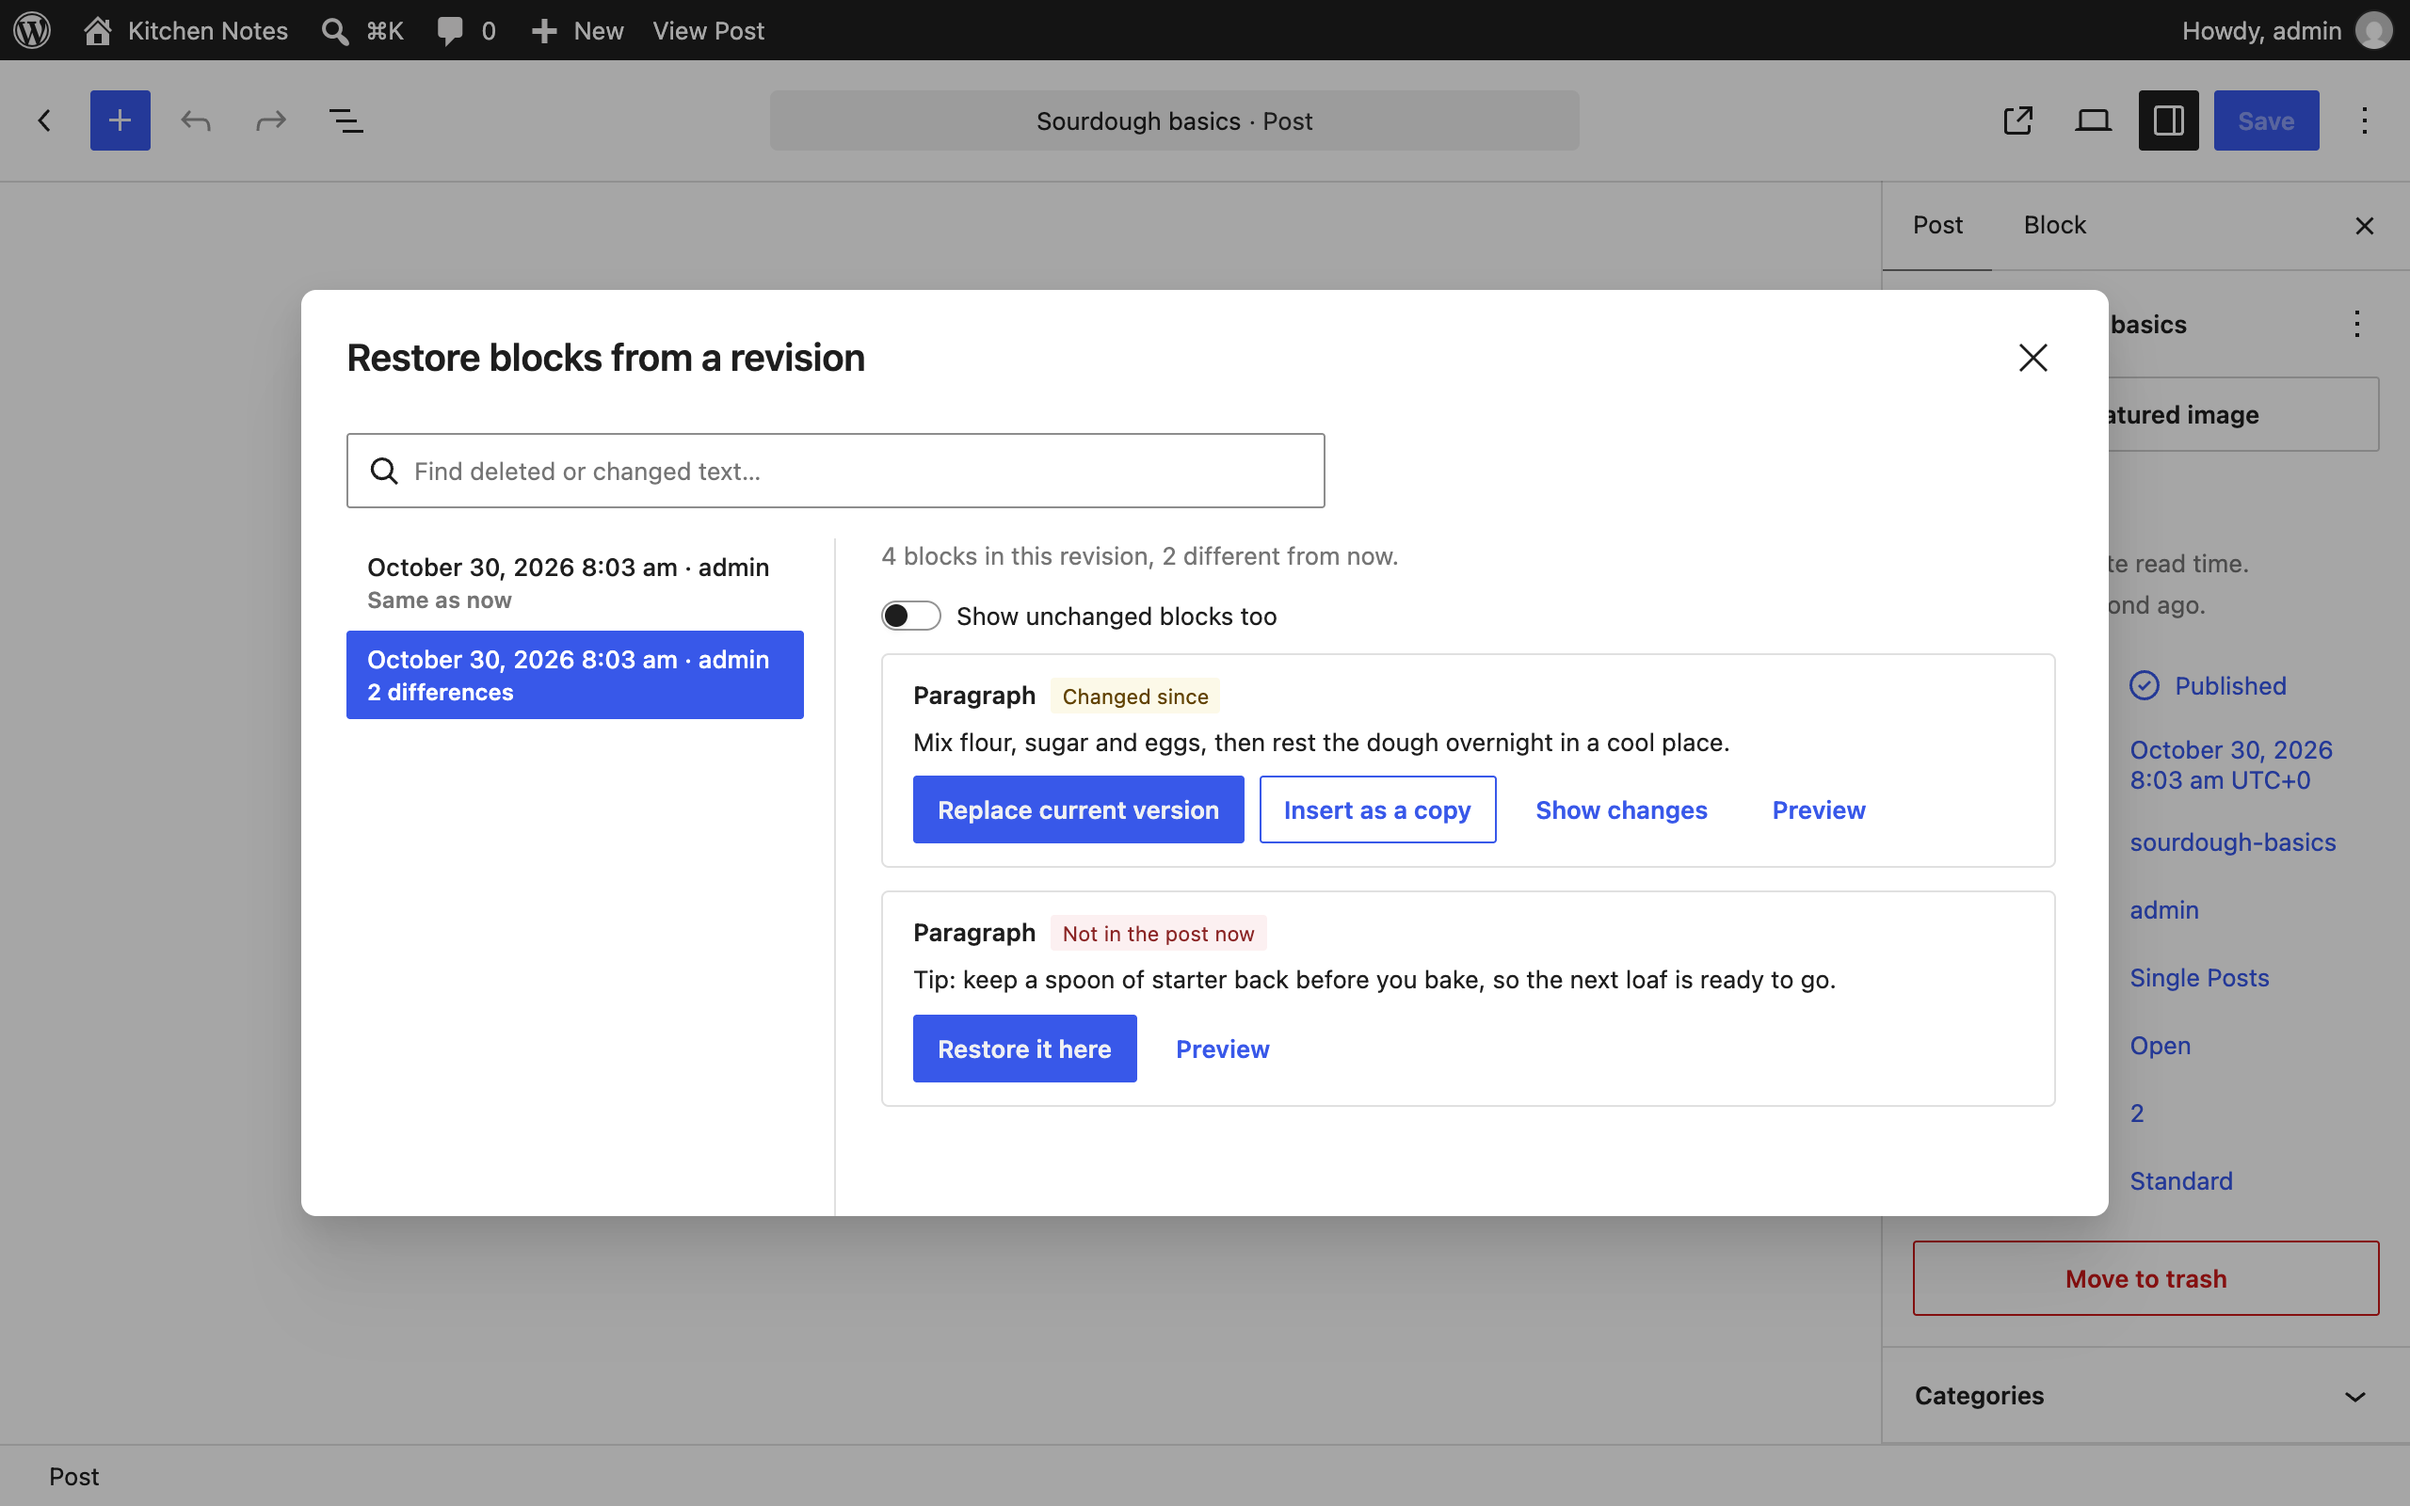
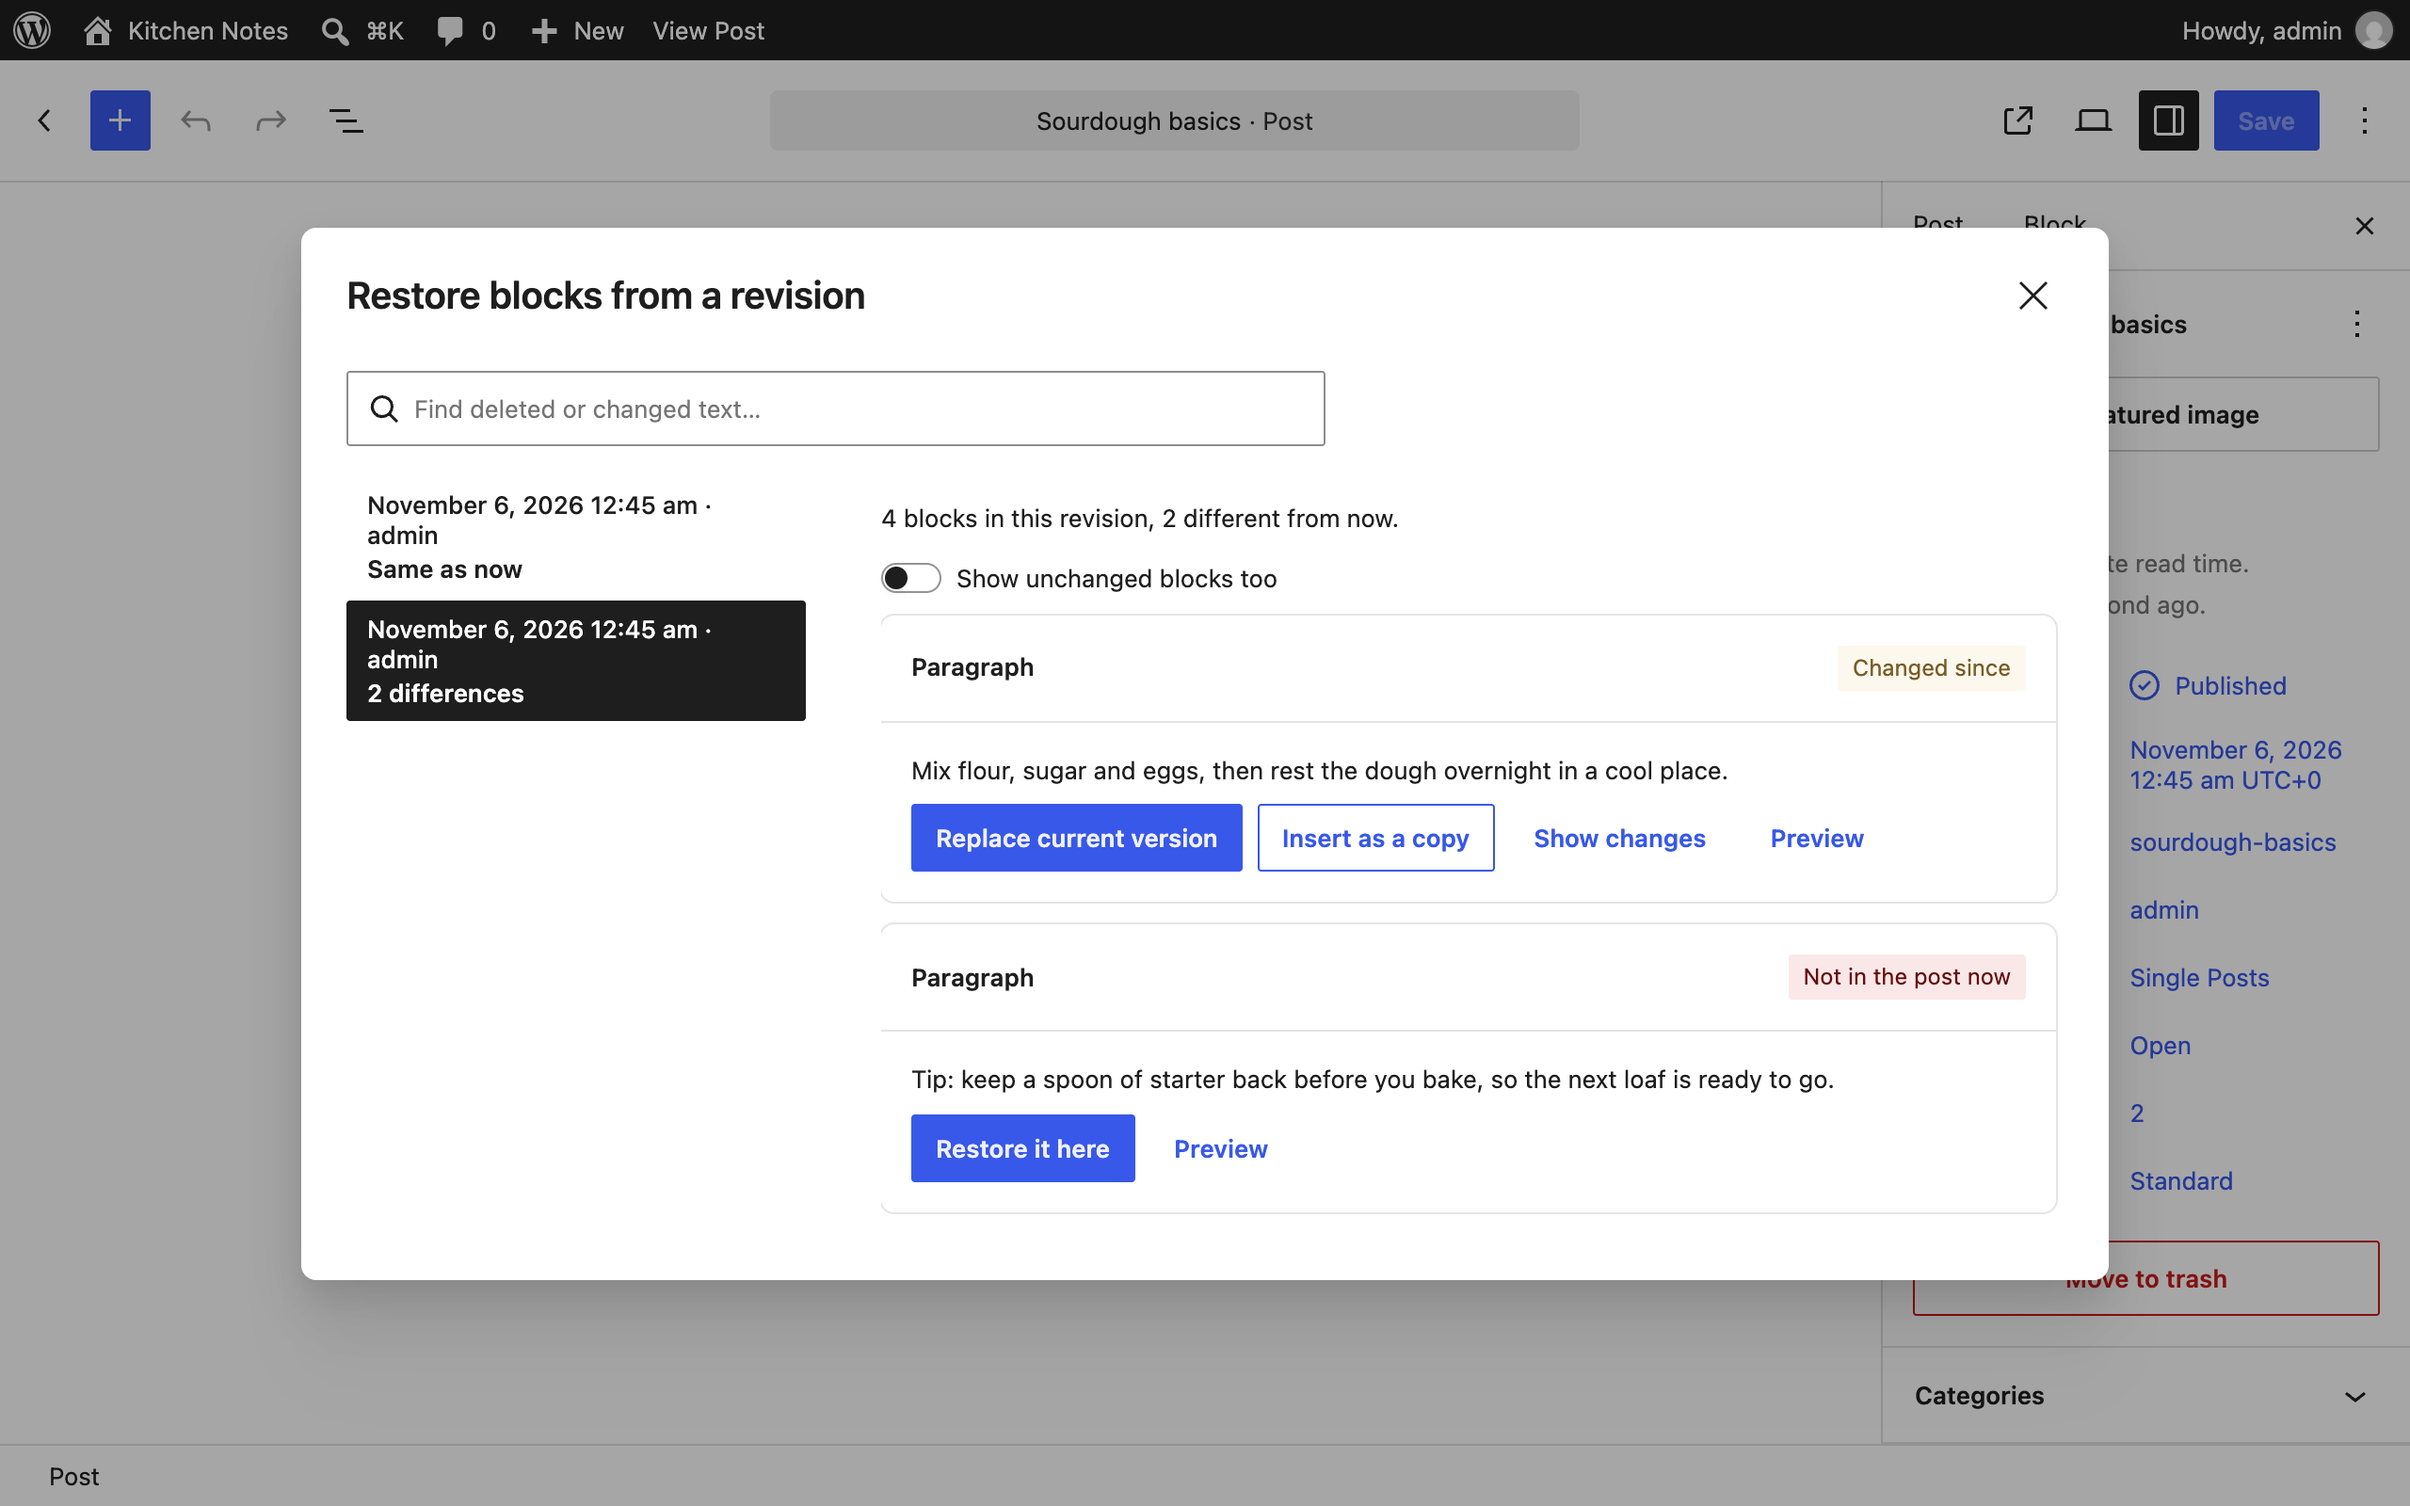
feat: adopt the Axle family design

diff --git a/assets/editor.css b/assets/editor.css
@@ -1,3 +1,4 @@
+/* Layout only. Colours, badges, cards and buttons come from @wordpress/components. */
 .abr-modal .components-modal__content {
 	padding-bottom: 0;
 }
@@ -19,7 +20,6 @@
 	display: flex;
 	flex-direction: column;
 	gap: 2px;
-	border-right: 1px solid #e0e0e0;
 	padding-right: 16px;
 	max-height: 66vh;
 	overflow-y: auto;
@@ -43,29 +43,10 @@
 }
 
 .abr-revision__meta {
-	font-size: 12px;
-	color: #757575;
-}
-
-.abr-revisions .abr-revision.is-selected {
-	background: var(--wp-admin-theme-color, #3858e9);
-	color: #fff;
-}
-
-.abr-revisions .abr-revision.is-selected .abr-revision__meta {
-	/* Full white: the 85% white it had stayed under 4.5:1 on the admin theme colors. */
-	color: #fff;
-}
-
-.abr-tag {
-	display: inline-block;
-	margin-right: 6px;
-	padding: 0 5px;
-	border: 1px solid currentColor;
-	border-radius: 2px;
-	font-size: 10px;
-	text-transform: uppercase;
-	letter-spacing: 0.03em;
+	display: flex;
+	flex-wrap: wrap;
+	gap: 6px;
+	align-items: center;
 }
 
 /* Blocks of the selected revision */
@@ -75,140 +56,92 @@
 	padding: 0 4px 24px 0;
 }
 
-.abr-summary {
-	margin-top: 0;
-	color: #757575;
-}
-
-.abr-card {
-	border: 1px solid #e0e0e0;
-	border-radius: 4px;
-	padding: 12px 16px;
+.abr-blocks .abr-card {
 	margin: 12px 0;
-	transition: box-shadow 0.2s;
 }
 
-.abr-card.is-focused {
-	border-color: var(--wp-admin-theme-color, #3858e9);
-	box-shadow: 0 0 0 1px var(--wp-admin-theme-color, #3858e9);
-}
-
-.abr-card__head {
+.abr-card__badges {
 	display: flex;
-	align-items: center;
+	flex-wrap: wrap;
 	gap: 8px;
 }
 
-.abr-card__excerpt {
-	margin: 6px 0 8px;
-}
-
-.abr-card__excerpt.is-empty {
-	color: #757575;
-	font-style: italic;
+.abr-card__excerpt,
+.abr-card__meta {
+	margin: 0 0 8px;
 }
 
 .abr-card__preview {
 	max-height: 260px;
 	overflow: hidden;
-	border: 1px solid #f0f0f0;
 	margin-bottom: 8px;
 }
 
 .abr-card__actions {
 	display: flex;
 	flex-wrap: wrap;
+	align-items: center;
 	gap: 8px;
 }
 
+.abr-card__actions .components-button {
+	flex-shrink: 0;
+}
+
+.abr-card__head {
+	display: flex;
+	flex-wrap: wrap;
+	align-items: center;
+	gap: 8px;
+}
+
+.abr-card__note {
+	flex-basis: 100%;
+}
+
 .abr-diff {
-	margin: 0 0 10px;
-	padding: 8px 12px;
-	background: #f6f7f7;
-	border-radius: 2px;
+	margin: 0 0 8px;
 	line-height: 1.7;
 }
 
-.abr-diff del,
-.abr-diff ins {
-	padding: 1px 2px;
-	border-radius: 2px;
+.abr-settings {
+	margin: 0 0 8px;
+	padding-left: 20px;
+	list-style: disc;
 }
 
-.abr-diff del + ins {
-	margin-left: 3px;
+.abr-inner__list {
+	margin: 0;
+	padding: 0;
 }
 
-.abr-diff del {
-	background: #fcf0f1;
-	color: #8a2424;
-	text-decoration: line-through;
+.abr-inner__item {
+	list-style: none;
+	margin: 0 0 16px;
 }
 
-.abr-diff ins {
-	background: #edfaef;
-	color: #00450c;
-	text-decoration: none;
-}
-
-.abr-modal mark {
-	background: #fcf9e8;
-	box-shadow: 0 0 0 1px #dba617;
-	color: inherit;
-}
-
-.abr-badge {
-	font-size: 11px;
-	line-height: 1;
-	padding: 4px 6px;
-	border-radius: 2px;
-	background: #f0f0f0;
-	color: #1e1e1e;
-}
-
-.abr-badge--missing {
-	background: #fcf0f1;
-	color: #8a2424;
-}
-
-.abr-badge--changed {
-	background: #fcf9e8;
-	color: #614200;
-}
-
-.abr-badge--match {
-	background: #edfaef;
-	color: #00450c;
+.abr-loading {
+	display: flex;
+	align-items: center;
+	gap: 8px;
 }
 
 /* Search results */
 .abr-results {
 	margin: 0;
-	padding-bottom: 24px;
+	padding: 0 0 24px;
 	max-height: 66vh;
 	overflow-y: auto;
 }
 
 .abr-result {
-	border: 1px solid #e0e0e0;
-	border-radius: 4px;
-	padding: 10px 16px;
-	margin: 0 0 10px;
 	list-style: none;
+	margin: 0 0 12px;
 }
 
-.abr-result__text {
-	margin: 0 0 4px;
-}
-
+.abr-result__text,
 .abr-result__meta {
 	margin: 0 0 8px;
-	color: #757575;
-	font-size: 12px;
-}
-
-.abr-search-empty {
-	color: #757575;
 }
 
 @media (max-width: 600px) {
@@ -217,8 +150,6 @@
 	}
 
 	.abr-revisions {
-		border-right: 0;
-		border-bottom: 1px solid #e0e0e0;
 		padding: 0 0 12px;
 		max-height: 30vh;
 	}

diff --git a/tests/e2e/screenshots.spec.js b/tests/e2e/screenshots.spec.js
@@ -53,4 +53,53 @@ test.describe( 'Screenshots', () => {
 		await expect( page.locator( '.abr-result' ) ).toHaveCount( 1 );
 		await shot( page, 3 );
 	} );
+
+	test( '4: restoring a block of a template part in the Site Editor', async ( { page, request } ) => {
+		const nonce = ( await ( await request.get( '/wp-admin/admin-ajax.php?action=rest-nonce' ) ).text() ).trim();
+		const theme = process.env.WP_THEME || 'twentytwentyfive';
+		const notes = [
+			[ p( 'Open Monday to Friday, from nine until five.' ), p( 'Call us on 020 7946 0000.' ) ],
+			[ p( 'Open Monday to Friday, from ten until six.' ), p( 'Call us on 020 7946 0000.' ) ],
+			[ p( 'Open Monday to Saturday, from ten until six.' ) ],
+		];
+		for ( const blocks of notes ) {
+			await request.post( `/index.php?rest_route=${ encodeURIComponent( `/wp/v2/template-parts/${ theme }//header` ) }`, { headers: { 'X-WP-Nonce': nonce }, data: { slug: 'header', theme, status: 'publish', content: blocks.join( '\n\n' ) } } );
+		}
+		await page.goto( `/wp-admin/site-editor.php?postType=wp_template_part&postId=${ encodeURIComponent( `${ theme }//header` ) }&canvas=edit` );
+		await page.waitForFunction( () => window.wp && window.wp.data && 'wp_template_part' === window.wp.data.select( 'core/editor' ).getCurrentPostType() && window.wp.data.select( 'core/block-editor' ).getBlocks().length );
+		await page.evaluate( () => {
+			window.wp.data.dispatch( 'core/preferences' ).set( 'core/edit-site', 'welcomeGuide', false );
+			window.wp.data.dispatch( 'core/preferences' ).set( 'core/edit-site', 'welcomeGuideTemplate', false );
+			window.wp.data.dispatch( 'core/preferences' ).set( 'core', 'welcomeGuide', false );
+			const id = window.wp.data.select( 'core/block-editor' ).getBlocks()[ 0 ].clientId;
+			window.wp.data.dispatch( 'core/block-editor' ).selectBlock( id );
+		} );
+		await page.getByRole( 'toolbar', { name: 'Block tools' } ).getByRole( 'button', { name: 'Options' } ).click();
+		await page.getByRole( 'menuitem', { name: 'Restore from a revision…' } ).click();
+		const best = page.locator( '.abr-card' ).first();
+		await best.getByRole( 'button', { name: 'Show changes' } ).click();
+		await expect( best.locator( '.abr-diff' ) ).toBeVisible();
+		await shot( page, 4 );
+	} );
+
+	test( '5: restoring a group, with what differs inside it', async ( { page, request } ) => {
+		const nonce = ( await ( await request.get( '/wp-admin/admin-ajax.php?action=rest-nonce' ) ).text() ).trim();
+		const group = ( ...inner ) => `<!-- wp:group --><div class="wp-block-group">${ inner.join( '' ) }</div><!-- /wp:group -->`;
+		const save = ( id, data ) => request.post( `/index.php?rest_route=/wp/v2/posts${ id ? '/' + id : '' }`, { headers: { 'X-WP-Nonce': nonce }, data } );
+		const id = ( await ( await save( 0, { title: 'Weekend loaf', status: 'draft', content: 'x' } ) ).json() ).id;
+		const versions = [
+			group( p( 'Mix the dough and leave it for an hour.' ), p( 'Bake at 230C for 40 minutes.' ), p( 'Let it cool before slicing.' ) ),
+			group( p( 'Mix the dough and leave it for an hour.' ), p( 'Bake at 200C for 30 minutes.' ), h( 'Serving' ) ),
+		];
+		for ( const content of versions ) {
+			await save( id, { content, status: 'publish' } );
+		}
+		await openEditor( page, id );
+		await page.getByRole( 'region', { name: 'Editor top bar' } ).getByRole( 'button', { name: 'Options' } ).click();
+		await page.getByRole( 'menuitem', { name: 'Restore blocks from a revision' } ).click();
+		const card = page.locator( '.abr-card', { has: page.locator( '.abr-badge--changed' ) } );
+		await card.getByRole( 'button', { name: /^Inside:/ } ).click();
+		await expect( card.locator( '.abr-inner__item' ).first() ).toBeVisible();
+		await shot( page, 5 );
+	} );
 } );
